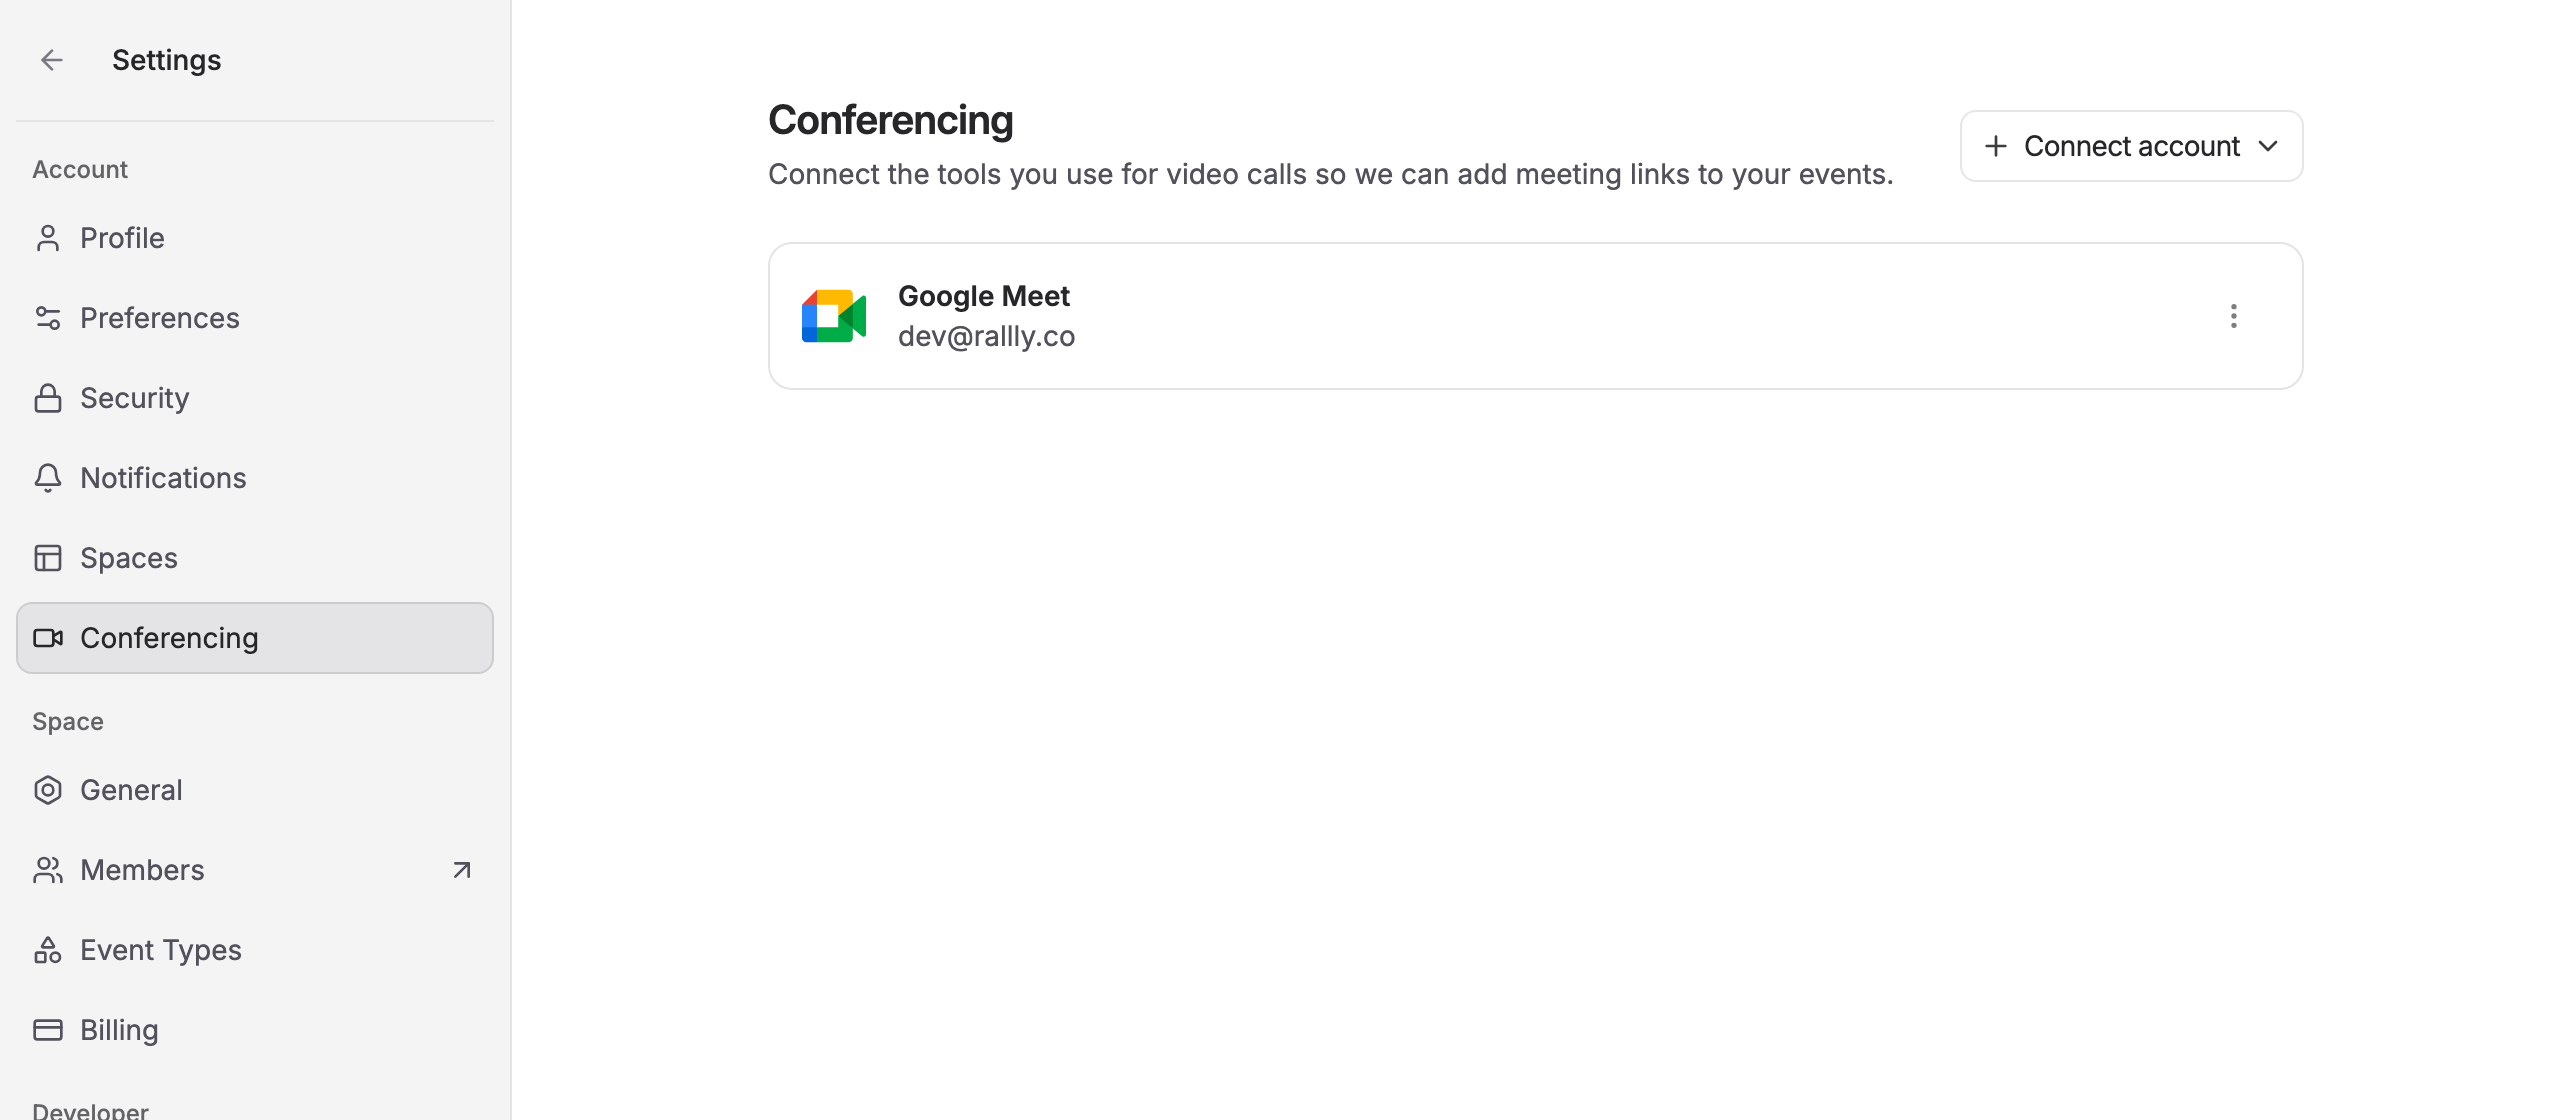
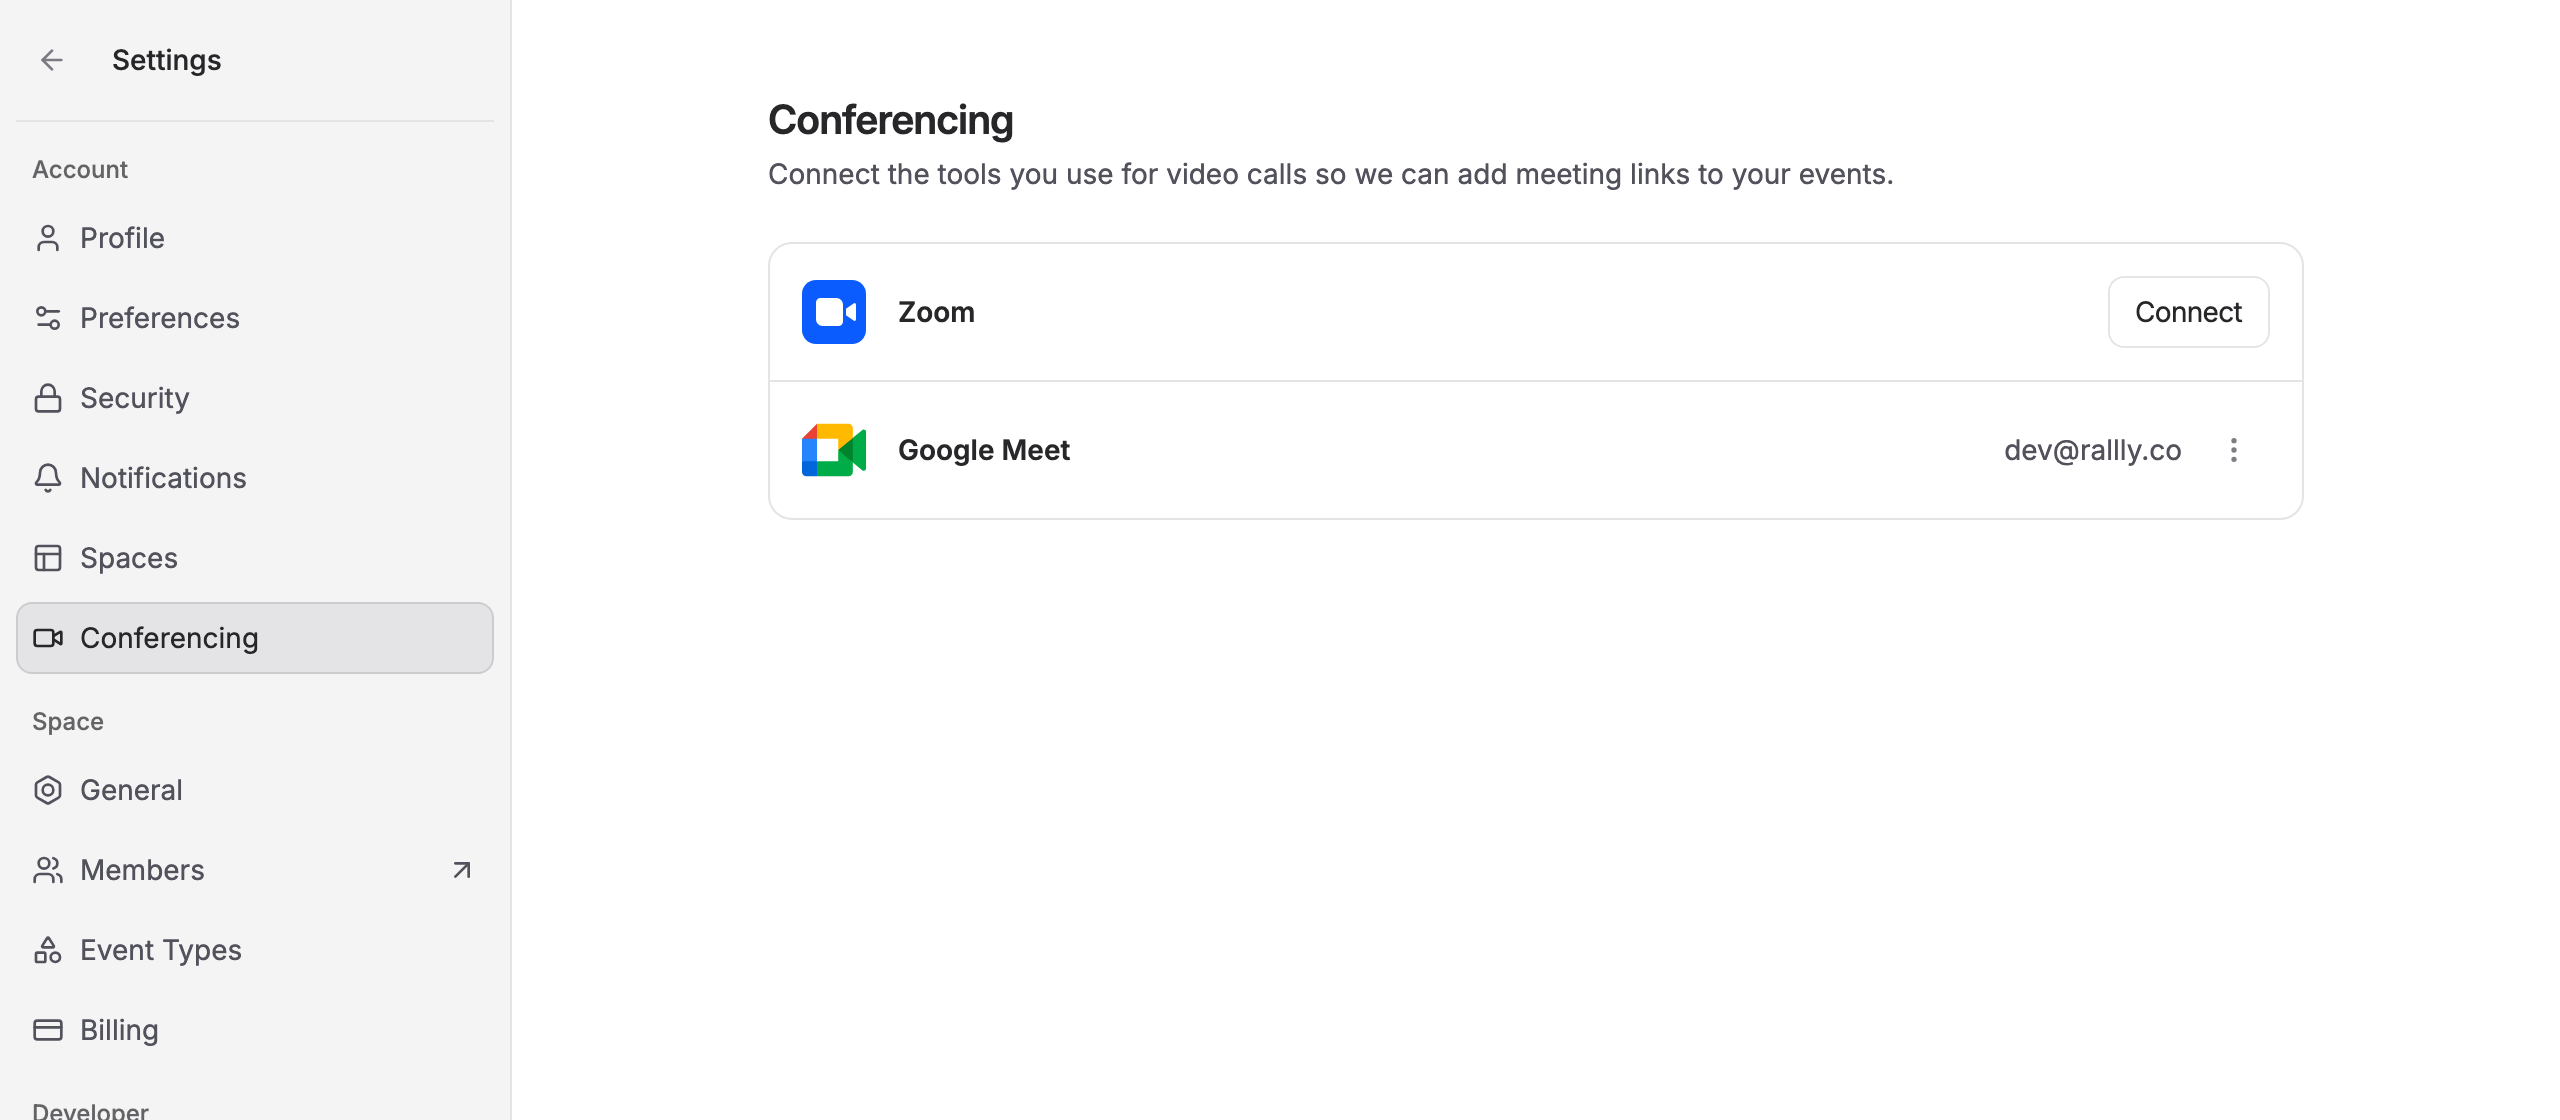
✨ Keep one conferencing account per provider

diff --git a/apps/web/src/app/[locale]/(space)/settings/conferencing/page.tsx b/apps/web/src/app/[locale]/(space)/settings/conferencing/page.tsx
@@ -4,7 +4,6 @@ import { Suspense } from "react";
 import { PageSection, PageSectionContent } from "@/components/page-layout";
 import {
   SettingsPage,
-  SettingsPageAction,
   SettingsPageContent,
   SettingsPageDescription,
   SettingsPageHeader,
@@ -12,12 +11,13 @@ import {
 } from "@/components/settings-layout";
 import { Spinner } from "@/components/spinner";
 import { ConferencingConnectionFlash } from "@/features/conferencing/components/conferencing-connection-flash";
-import { ConferencingConnectionList } from "@/features/conferencing/components/conferencing-connection-list";
-import { ConnectConferencingDropdown } from "@/features/conferencing/components/connect-conferencing-dropdown";
+import { ConferencingProviderList } from "@/features/conferencing/components/conferencing-provider-list";
 import {
   loadAvailableConferencingProviders,
   loadConferencingConnections,
 } from "@/features/conferencing/loaders";
+import type { ConferencingProvider } from "@/features/conferencing/schema";
+import { conferencingProviderSchema } from "@/features/conferencing/schema";
 import { integrationIdToConferencingProvider } from "@/features/conferencing/utils";
 import { Trans } from "@/i18n/client";
 import { getTranslation } from "@/i18n/server";
@@ -30,11 +30,6 @@ async function AvailabilityGate() {
     notFound();
   }
   return null;
-}
-
-async function ConnectAction() {
-  const providers = await loadAvailableConferencingProviders();
-  return <ConnectConferencingDropdown providers={providers} />;
 }
 
 export default function ConferencingPage() {
@@ -58,17 +53,12 @@ export default function ConferencingPage() {
             defaults="Connect the tools you use for video calls so we can add meeting links to your events."
           />
         </SettingsPageDescription>
-        <SettingsPageAction>
-          <Suspense fallback={null}>
-            <ConnectAction />
-          </Suspense>
-        </SettingsPageAction>
       </SettingsPageHeader>
       <SettingsPageContent>
         <PageSection>
           <PageSectionContent>
             <Suspense fallback={<Spinner />}>
-              <ConnectionList />
+              <ProviderList />
             </Suspense>
           </PageSectionContent>
         </PageSection>
@@ -77,17 +67,39 @@ export default function ConferencingPage() {
   );
 }
 
-async function ConnectionList() {
-  const connections = await loadConferencingConnections();
+async function ProviderList() {
+  const [available, connections] = await Promise.all([
+    loadAvailableConferencingProviders(),
+    loadConferencingConnections(),
+  ]);
   // The stored provider is the OAuth provider ("google"); the form and icons
   // speak in conferencing providers, which the integration id identifies.
-  const items = connections.flatMap((connection) => {
+  const connected = new Map<
+    ConferencingProvider,
+    { id: string; email: string }
+  >();
+  for (const connection of connections) {
     const provider = integrationIdToConferencingProvider(
       connection.integrationId,
     );
-    return provider ? [{ ...connection, provider }] : [];
-  });
-  return <ConferencingConnectionList connections={items} />;
+    // Connections come oldest first, and the oldest is the one finalizing uses.
+    if (provider && !connected.has(provider)) {
+      connected.set(provider, { id: connection.id, email: connection.email });
+    }
+  }
+  // A provider no longer offered stays listed while connected, so it can
+  // still be disconnected.
+  const providers = conferencingProviderSchema.options.filter(
+    (provider) => available.includes(provider) || connected.has(provider),
+  );
+  return (
+    <ConferencingProviderList
+      providers={providers.map((provider) => ({
+        provider,
+        connection: connected.get(provider) ?? null,
+      }))}
+    />
+  );
 }
 
 export async function generateMetadata(): Promise<Metadata> {

diff --git a/apps/web/src/features/conferencing/components/conferencing-provider-list.tsx b/apps/web/src/features/conferencing/components/conferencing-provider-list.tsx
@@ -1,0 +1,108 @@
+"use client";
+
+import { mutationOptions } from "@next-safe-action/adapter-tanstack-query";
+import { Button } from "@huddle/ui/button";
+import {
+  DropdownMenu,
+  DropdownMenuContent,
+  DropdownMenuItem,
+  DropdownMenuTrigger,
+} from "@huddle/ui/dropdown-menu";
+import { toast } from "@huddle/ui/sonner";
+import { useMutation } from "@tanstack/react-query";
+import { MoreVerticalIcon, UnplugIcon } from "lucide-react";
+import { StackedList, StackedListItem } from "@/components/stacked-list";
+import { disconnectConferencingConnectionAction } from "@/features/conferencing/actions";
+import { connectToConferencing } from "@/features/conferencing/client";
+import { ConferencingProviderIcon } from "@/features/conferencing/components/conferencing-provider-icon";
+import type { ConferencingProvider } from "@/features/conferencing/schema";
+import {
+  conferencingProviderIntegrations,
+  conferencingProviderLabels,
+} from "@/features/conferencing/utils";
+import { Trans, useTranslation } from "@/i18n/client";
+
+export function ConferencingProviderList({
+  providers,
+}: {
+  providers: {
+    provider: ConferencingProvider;
+    connection: { id: string; email: string } | null;
+  }[];
+}) {
+  const { t } = useTranslation();
+  const disconnect = useMutation(
+    mutationOptions(disconnectConferencingConnectionAction, {
+      onSuccess: () => {
+        toast.success(
+          t("conferencingDisconnected", {
+            defaultValue: "Account disconnected",
+          }),
+        );
+      },
+    }),
+  );
+
+  return (
+    <StackedList>
+      {providers.map(({ provider, connection }) => (
+        <StackedListItem
+          key={provider}
+          className="gap-x-4 hover:bg-transparent"
+        >
+          <span className="shrink-0">
+            <ConferencingProviderIcon provider={provider} size={32} />
+          </span>
+          <p className="shrink-0 font-semibold text-sm">
+            {conferencingProviderLabels[provider]}
+          </p>
+          <div className="ml-auto flex min-w-0 items-center gap-x-2">
+            {connection ? (
+              <>
+                <p className="truncate text-muted-foreground text-sm">
+                  {connection.email}
+                </p>
+                <DropdownMenu>
+                  <DropdownMenuTrigger
+                    render={
+                      <Button
+                        aria-label={t("moreOptions", {
+                          defaultValue: "More options",
+                        })}
+                        variant="ghost"
+                        size="icon"
+                      />
+                    }
+                  >
+                    <MoreVerticalIcon className="text-muted-foreground" />
+                  </DropdownMenuTrigger>
+                  <DropdownMenuContent align="end">
+                    <DropdownMenuItem
+                      variant="destructive"
+                      onClick={() => {
+                        disconnect.mutate({ id: connection.id });
+                      }}
+                    >
+                      <UnplugIcon />
+                      <Trans i18nKey="disconnect" defaults="Disconnect" />
+                    </DropdownMenuItem>
+                  </DropdownMenuContent>
+                </DropdownMenu>
+              </>
+            ) : (
+              <Button
+                onClick={() => {
+                  connectToConferencing(
+                    conferencingProviderIntegrations[provider].integrationId,
+                  );
+                }}
+              >
+                <Trans i18nKey="connect" defaults="Connect" />
+              </Button>
+            )}
+          </div>
+        </StackedListItem>
+      ))}
+    </StackedList>
+  );
+}

diff --git a/apps/web/tests/conferencing.spec.ts b/apps/web/tests/conferencing.spec.ts
@@ -76,16 +76,13 @@ test.describe
       await prisma.user.delete({ where: { id: userId } });
     });
 
-    test("settings page starts empty and offers the configured providers", async () => {
+    test("settings page lists the configured providers to connect", async () => {
       await page.goto("/settings/conferencing");
       await expect(
         page.getByRole("heading", { name: "Conferencing" }),
       ).toBeVisible();
-      await expect(page.getByText("No accounts connected")).toBeVisible();
-
-      await page.getByRole("button", { name: "Connect account" }).click();
-      await expect(page.getByRole("menuitem", { name: "Zoom" })).toBeVisible();
-      await page.keyboard.press("Escape");
+      await expect(page.getByText("Zoom", { exact: true })).toBeVisible();
+      await expect(page.getByRole("button", { name: "Connect" })).toBeVisible();
     });
 
     test("poll form blocks a provider the organizer has not connected", async () => {
@@ -113,6 +110,9 @@ test.describe
       await expect(
         page.getByText(`organizer-${runId}@zoom.example`),
       ).toBeVisible();
+      await expect(page.getByRole("button", { name: "Connect" })).toHaveCount(
+        0,
+      );
     });
 
     test("poll form accepts a connected provider and stores it", async () => {
@@ -203,7 +203,7 @@ test.describe
       await page.goto("/settings/conferencing");
       await page.getByRole("button", { name: "More options" }).click();
       await page.getByRole("menuitem", { name: "Disconnect" }).click();
-      await expect(page.getByText("No accounts connected")).toBeVisible();
+      await expect(page.getByRole("button", { name: "Connect" })).toBeVisible();
       expect(
         await prisma.conferencingConnection.count({ where: { userId } }),
       ).toBe(0);
@@ -246,7 +246,7 @@ test.describe
       await page.goto("/settings/conferencing");
       await page.getByRole("button", { name: "More options" }).click();
       await page.getByRole("menuitem", { name: "Disconnect" }).click();
-      await expect(page.getByText("No accounts connected")).toBeVisible();
+      await expect(page.getByText(email)).toHaveCount(0);
       expect(
         await prisma.credential.count({ where: { id: credential.id } }),
       ).toBe(1);

diff --git a/apps/web/src/features/conferencing/mutations.ts b/apps/web/src/features/conferencing/mutations.ts
@@ -28,7 +28,7 @@ export const createConferencingConnection = async ({
   displayName: string;
   userInfo: UserInfo;
 }) => {
-  return await prisma.conferencingConnection.upsert({
+  const connection = await prisma.conferencingConnection.upsert({
     where: {
       user_provider_account_unique: {
         userId,
@@ -50,6 +50,19 @@ export const createConferencingConnection = async ({
       email: userInfo.email,
     },
   });
+
+  // A poll names only the provider, so a second account for the same
+  // integration would never host a meeting. Connecting one replaces the rest.
+  const replaced = await prisma.conferencingConnection.findMany({
+    where: { userId, integrationId, id: { not: connection.id } },
+    select: { id: true, provider: true, credentialId: true },
+  });
+
+  for (const previous of replaced) {
+    await removeConferencingConnection(previous);
+  }
+
+  return connection;
 };
 
 export const disconnectConferencingConnection = async ({
